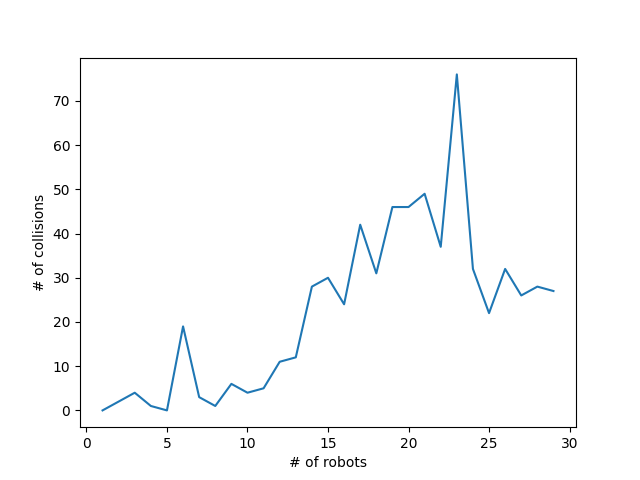
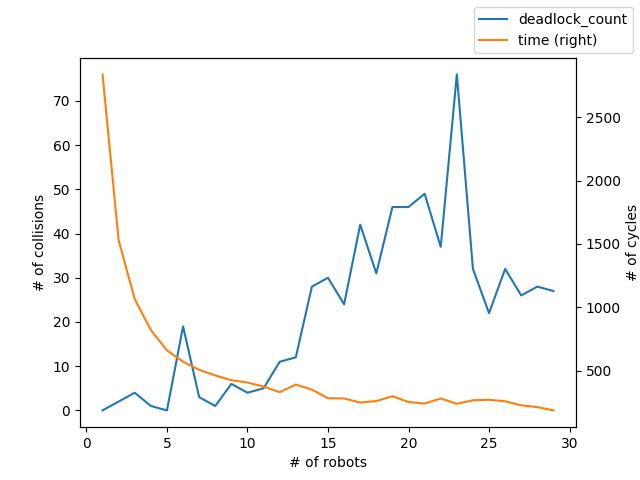
Added time cycle tracking in analysis

diff --git a/scripts/run_analysis_sim.py b/scripts/run_analysis_sim.py
@@ -1,10 +1,8 @@
 from PIL import Image
-import numpy as np
 from src.orchestrator import Orchestrator
 from argparse import ArgumentParser
-import pandas as pd
-import random
 from src.generate_warehouse_map import generate_warehouse_numpy_map
+from src.utility import RobotPath, Counter
 
 def run_analysis_sim(num_of_robots, shelves_to_grab):
     """
@@ -43,40 +41,25 @@ def run_analysis_sim(num_of_robots, shelves_to_grab):
 
     goals = [(x[0], x[1], 0) for x in shelf_list[:shelves_to_grab]]
 
-    # This class is just for painting robot
-    # paths on the png in different colors
-    class Painter:
-        def __init__(self, color) -> None:
-            self.color = color
+    
 
-        def paint_move(self, pt):
-            ary_map[pt[0], pt[1]] = np.array(self.color)
-
-    # print a message when a dead lock is detected
-    def deadlock_detected(pt):
-        print('Deadlock detected at ' + str(pt) + ', replanning...')
-
+    # track the number of deadlocks detected
+    deadlock_counter = Counter()
     orchestrator = Orchestrator(obstacles, size)
     # register the deadlock observer
-    orchestrator.subscribe_to_deadlock(deadlock_detected)
-    painters = []
-    colors = []
-    for r in [0, 255]:
-        for g in [0, 255]:
-            for b in [0, 255]:
-                colors.append((r,g,b))
+    orchestrator.subscribe_to_deadlock(lambda _: deadlock_counter.increment())
     
-    colors.remove((0,0,0))
-    colors.remove((255,255,255))
+    robot_paths = []
 
     # init each robot
     for count, start in enumerate(starts):
         goal = goals.pop()
         robot = orchestrator.add_robot(count, start, goal)
-        # register the move observer to paint
-        # the robot path
-        painters.append(Painter(colors[count % len(colors)]))
-        robot.subscribe_to_movement(painters[-1].paint_move)
+        robot_paths.append(RobotPath(count))
+        
+        # register the move observer to track
+        # the robot path        
+        robot.subscribe_to_movement(robot_paths[-1].add_to_path)
         robots.append(robot)
 
     # create a queue of requests to be handled when a robot
@@ -93,8 +76,8 @@ def run_analysis_sim(num_of_robots, shelves_to_grab):
     result_png.save('../results/result.png')
     result_resized = result_png.resize((600, 600), Image.NEAREST)
     result_resized.save('../results/result_resized.png')
-    print("Total number of deadlocks: {} with {} robots".format(orchestrator.deadlock_count, num_of_robots))
-    return orchestrator.deadlock_count
+    print("Total number of deadlocks: {} with {} robots".format(deadlock_counter.count, num_of_robots))
+    return deadlock_counter.count, robot_paths
 
 
 if __name__ == "__main__":

diff --git a/scripts/deadlock_vs_robots_count_analysis.py b/scripts/deadlock_vs_robots_count_analysis.py
@@ -1,24 +1,40 @@
 from run_analysis_sim import run_analysis_sim
 import pandas as pd
+import matplotlib.pyplot as plt
 
 
 def main():
     x = []
     y = []
+    time = []
     for num_robots in range(1,30):
-        deadlock_count = run_analysis_sim(num_of_robots=num_robots, shelves_to_grab=30)
+        deadlock_count, robot_paths = run_analysis_sim(num_of_robots=num_robots, shelves_to_grab=30)
         x.append(num_robots)
         y.append(deadlock_count)
+        t = max([len(robot.path) for robot in robot_paths])
+        time.append(t)
     
-    data = pd.DataFrame({'num_robots': x, 'deadlock_count': y})
+    data = pd.DataFrame({'num_robots': x, 'deadlock_count': y, 'time': time})
+    # data = pd.read_csv('../results/deadlock_analysis.csv')
+    fig, ax = plt.subplots()
     data.to_csv('../results/deadlock_analysis.csv')
-    fig = data.plot(
+    data.plot(
         xlabel='# of robots', 
         ylabel='# of collisions', 
         x='num_robots', 
         y='deadlock_count',
-        legend=False)
-    fig.figure.savefig('../results/deadlock_analysis.png')
+        legend=False,
+        ax=ax)
+    data.plot(
+        xlabel='# of robots', 
+        ylabel='# of cycles', 
+        x='num_robots', 
+        y='time',
+        legend=False,
+        ax=ax,
+        secondary_y=True)
+    fig.legend()
+    fig.savefig('../results/deadlock_analysis.png')
 
 if __name__ == "__main__":
     main()

diff --git a/src/utility.py b/src/utility.py
@@ -1,0 +1,45 @@
+import numpy as np
+
+# create a global list of possible
+# RGB values
+colors = []
+for r in [0, 255]:
+    for g in [0, 255]:
+        for b in [0, 255]:
+            colors.append((r,g,b))
+
+colors.remove((0,0,0))
+colors.remove((255,255,255))
+
+# This class is just for painting robot
+# paths on the png in different colors
+class Painter:
+    def __init__(self, color, map) -> None:
+        self.color = color
+        self.ary_map = map
+
+    def paint_move(self, pt):
+        self.ary_map[pt[0], pt[1]] = np.array(self.color)
+
+class RobotPath:
+    def __init__(self, name) -> None:
+        self.name = name
+        self._path = []
+
+    def add_to_path(self, pt):
+        self._path.append(pt)
+
+    @property
+    def path(self):
+        return self._path
+
+class Counter:
+    def __init__(self) -> None:
+        self._count = 0
+
+    def increment(self):
+        self._count = self._count + 1
+
+    @property
+    def count(self):
+        return self._count

diff --git a/src/orchestrator.py b/src/orchestrator.py
@@ -43,8 +43,7 @@ class Orchestrator(object):
     def make_request(self, end_pose):
         self.request_queue.append(end_pose)
 
-    def on_deadlock(self, pose):
-        self.deadlock_count += 1
+    def on_deadlock(self, pose):        
         for observer in self.deadlock_observers:
             observer.__call__(pose)
 
